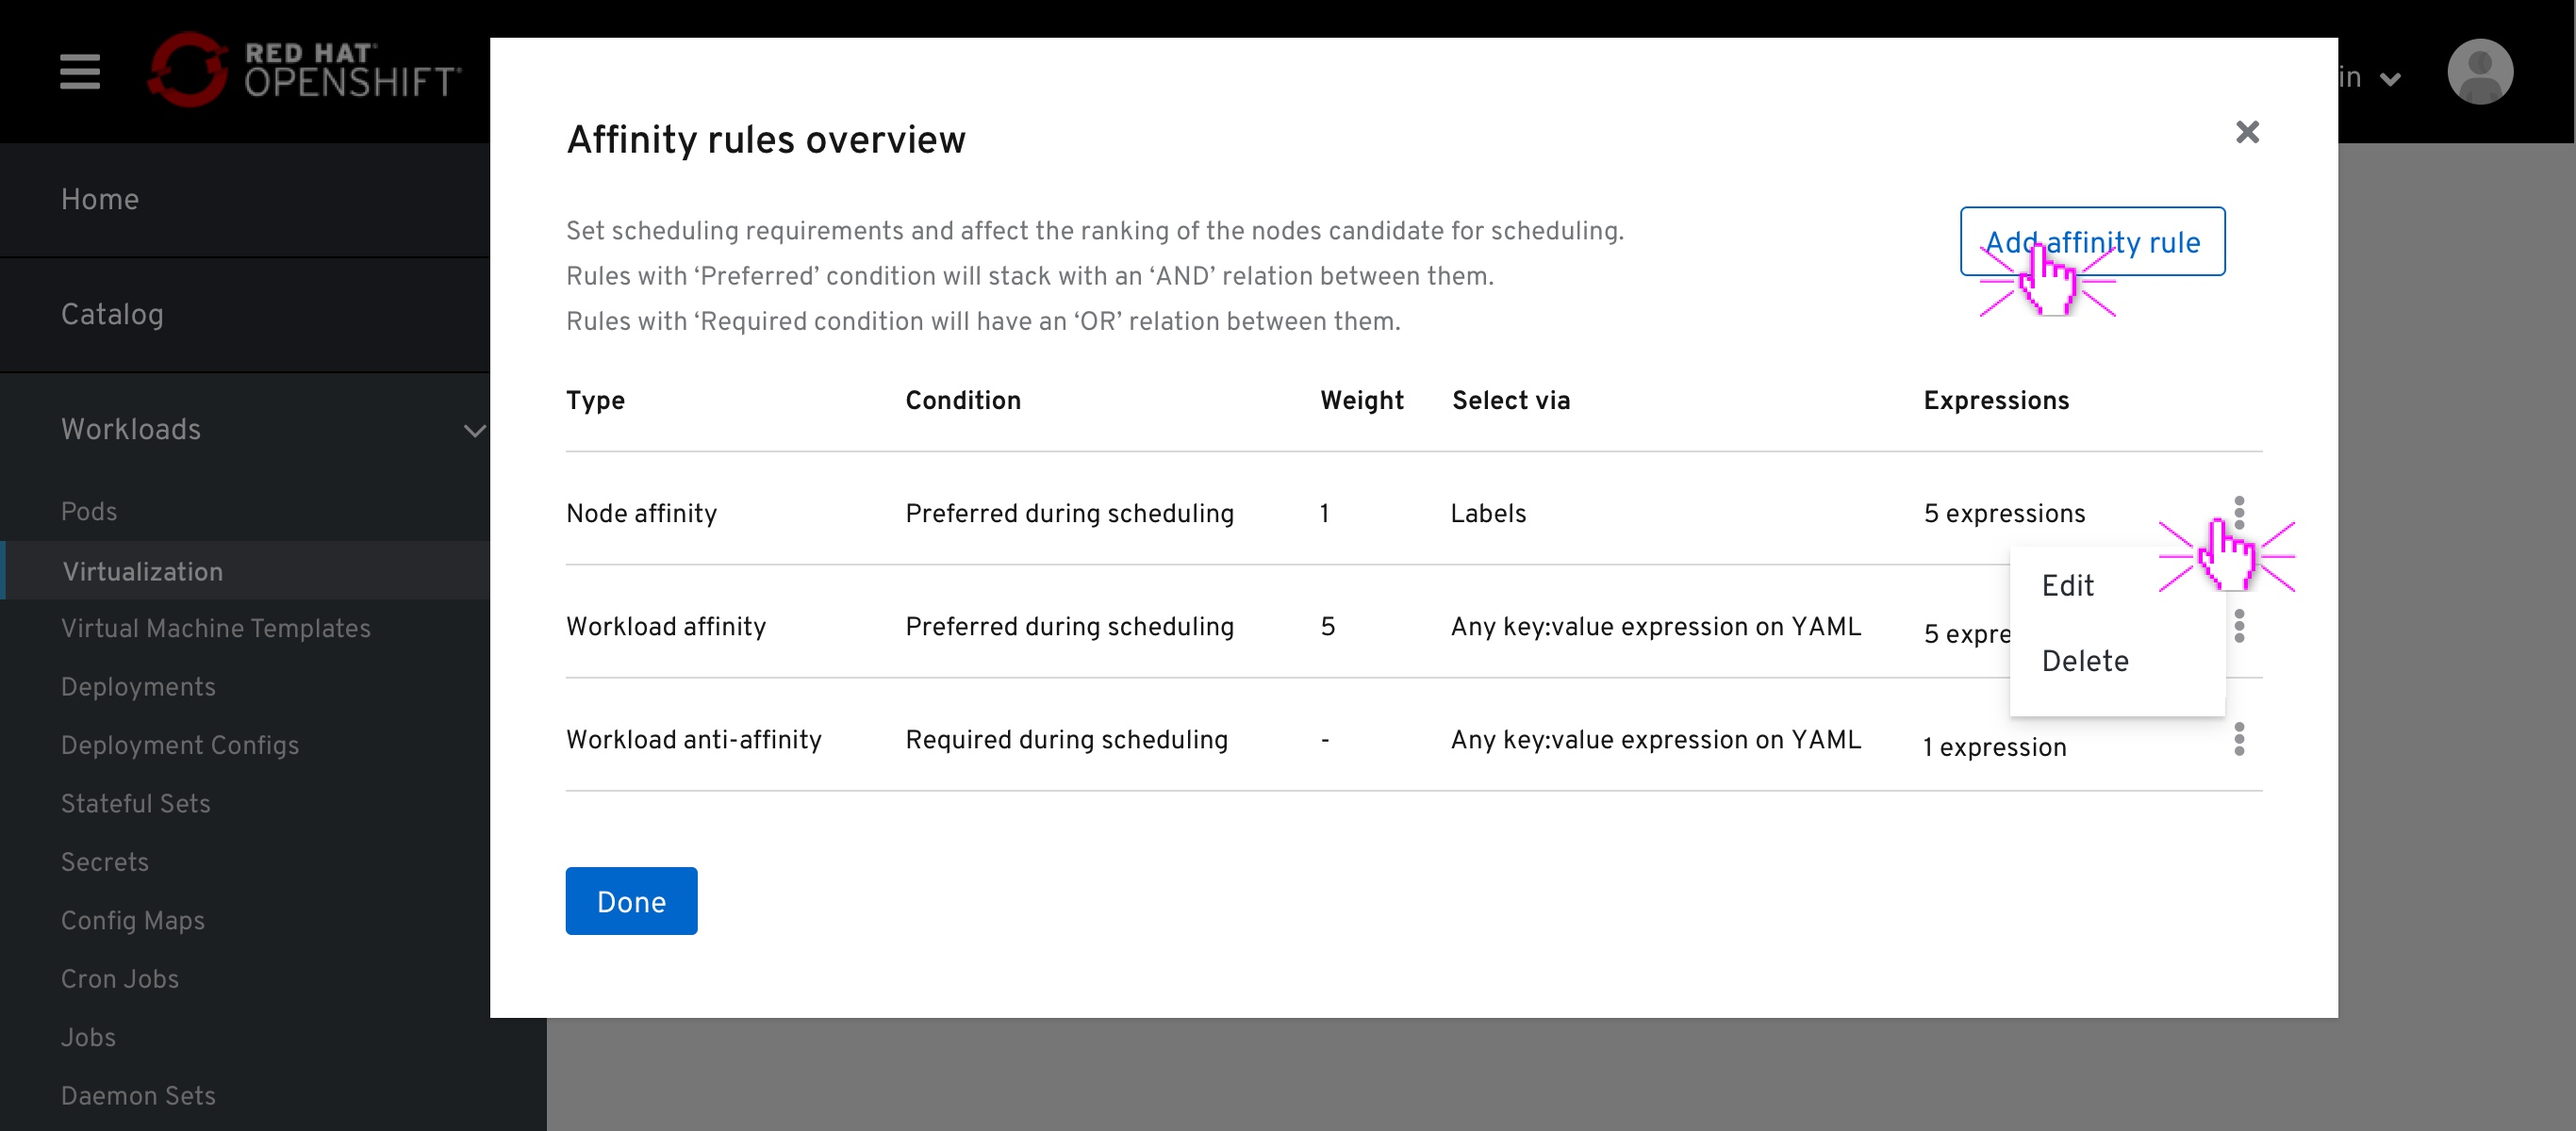
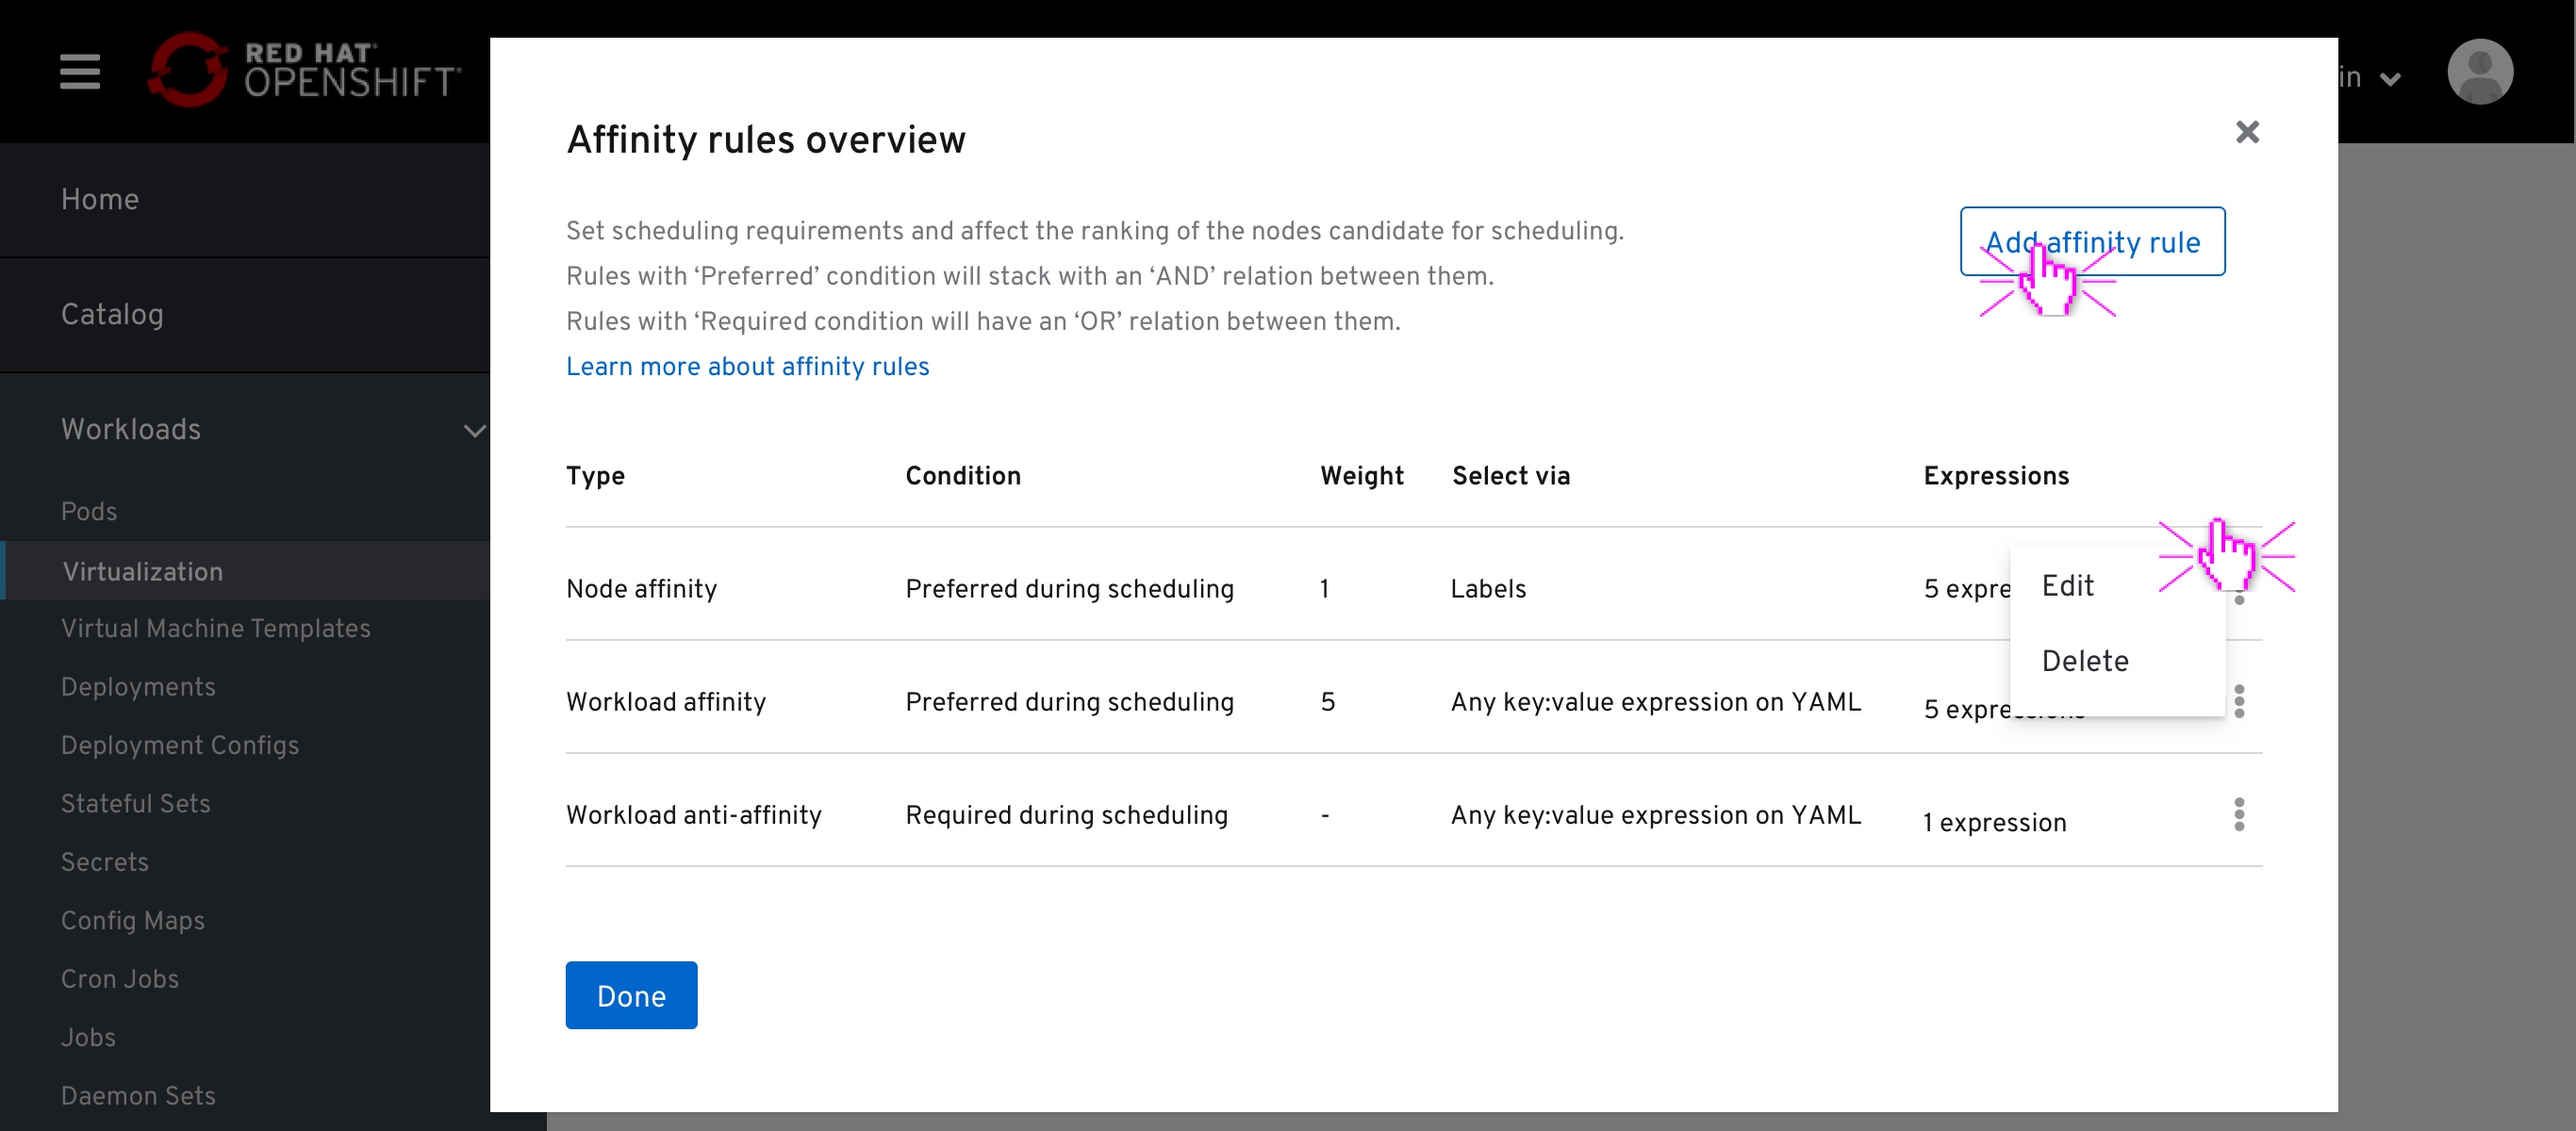
adding learn more about affinity rules link

diff --git a/designs/virtualization/4.5/Scheduling/Affinity/Affinity.md b/designs/virtualization/4.5/Scheduling/Affinity/Affinity.md
@@ -26,6 +26,9 @@ A support text below the header will notify the user that:
 "Rules with ‘Preferred’ condition will stack with an ‘AND’ relation between them. 
 Rules with ‘Required condition will have an ‘OR’ relation between them."
 
+The "learn more about affinity rules" links to:
+https://kubevirt.io/2020/Advanced-scheduling-with-affinity-rules.html
+
 ## Add/Edit affinity rule modal
 
 ![Affinity Edit/Create modal ](img/Affinity-2-0.jpg)
